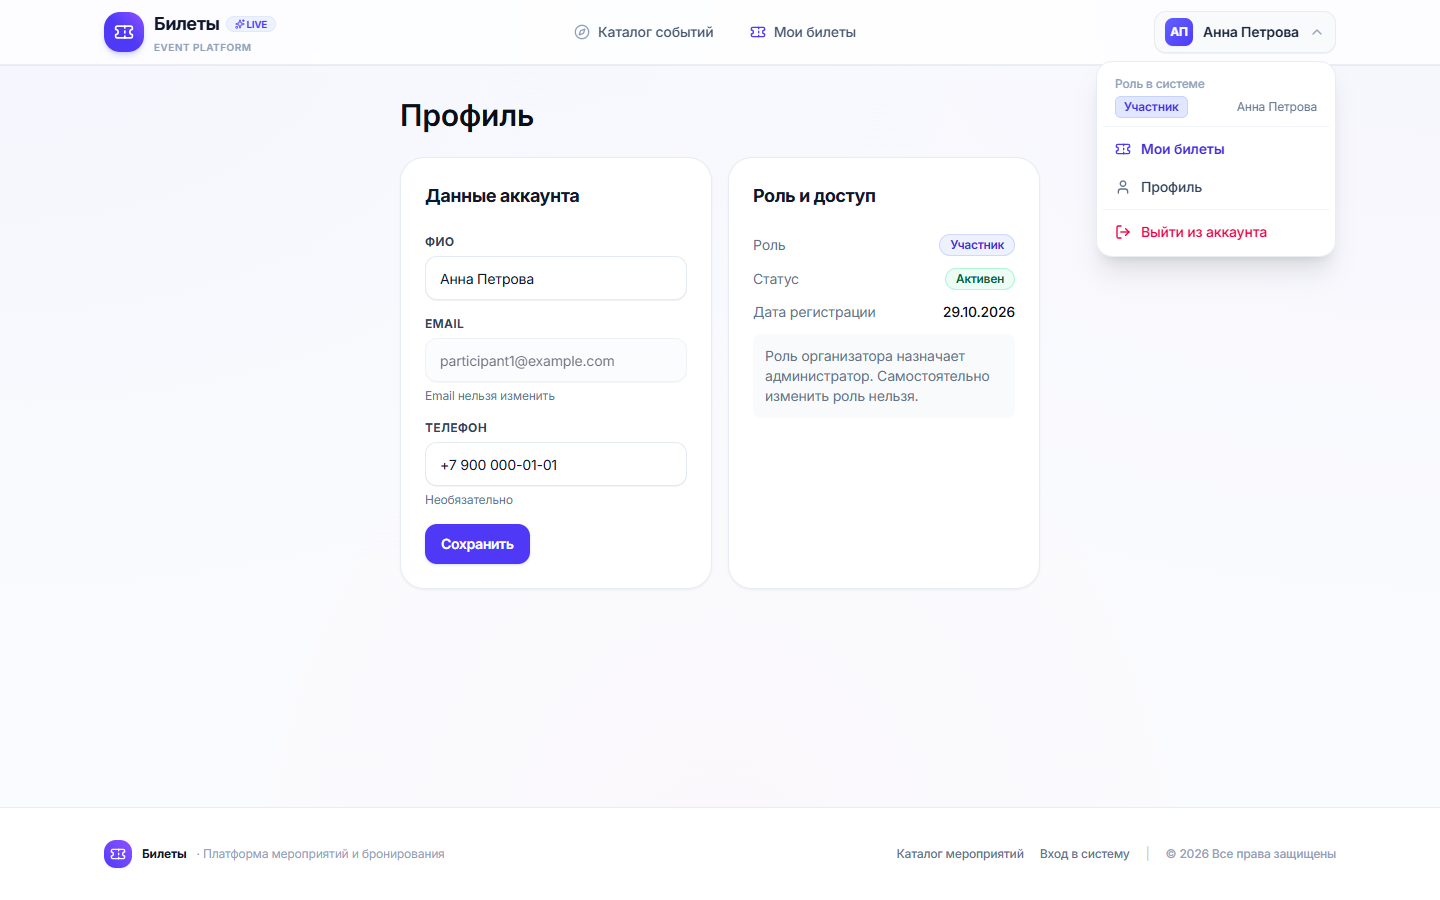
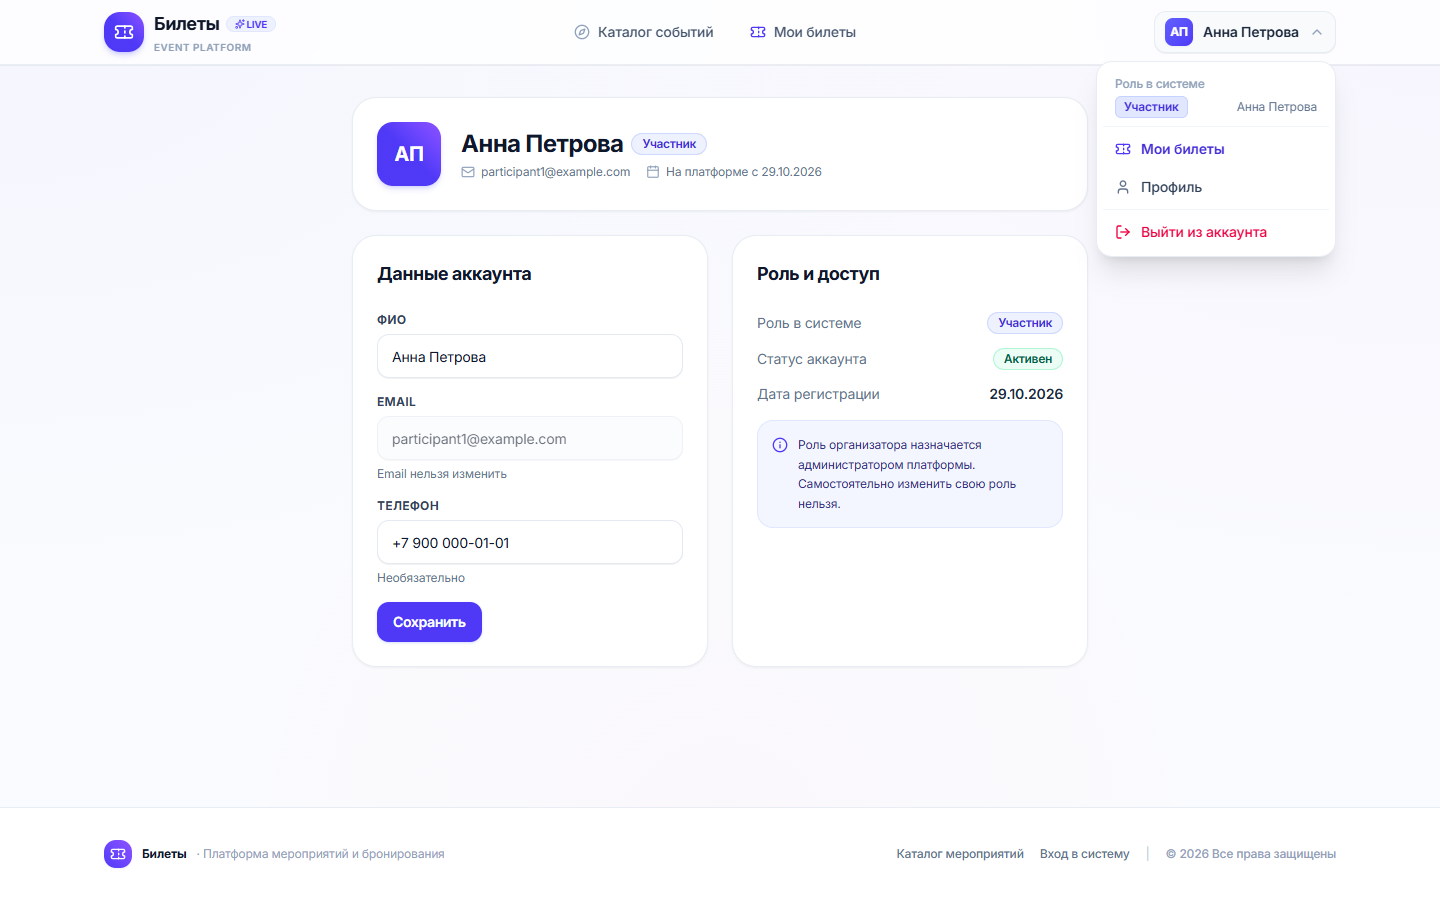
feat(ui): comprehensive UI polish across hall legend, organizer metrics, profile, and auth forms

diff --git a/src/app/(public)/login/login-form.tsx b/src/app/(public)/login/login-form.tsx
@@ -4,7 +4,7 @@ import * as React from 'react';
 import Link from 'next/link';
 import { useRouter, useSearchParams } from 'next/navigation';
 import { useFormStatus } from 'react-dom';
-import { ShieldAlert, Sparkles, UserCheck, Briefcase } from 'lucide-react';
+import { ShieldAlert, Sparkles, UserCheck, Briefcase, Eye, EyeOff } from 'lucide-react';
 import { loginAction } from '@/server/actions/auth';
 import { safeRedirectPath } from '@/shared/utils';
 import { Button } from '@/components/ui/button';
@@ -28,6 +28,7 @@ export function LoginForm() {
   const next = safeRedirectPath(rawNext, '/my-tickets');
   const [email, setEmail] = React.useState('');
   const [password, setPassword] = React.useState('');
+  const [showPassword, setShowPassword] = React.useState(false);
   const [error, setError] = React.useState<string | null>(null);
   const [fieldErrors, setFieldErrors] = React.useState<Record<string, string>>({});
   const [pending, setPending] = React.useState(false);
@@ -68,41 +69,44 @@ export function LoginForm() {
         router.refresh();
       }}
     >
-      {/* Кнопки быстрого выбора роли для демонстрации / защиты диплома */}
-      <div className="rounded-xl border border-slate-200 bg-slate-50 p-3 shadow-2xs">
-        <div className="flex items-center gap-1.5 text-xs font-semibold text-slate-700 mb-2">
+      {/* Кнопки быстрого выбора роли для демонстрации возможностей платформы */}
+      <div className="rounded-2xl border border-slate-200 bg-slate-50/80 p-3 shadow-2xs">
+        <div className="flex items-center gap-1.5 text-xs font-semibold text-slate-700 mb-2.5">
           <Sparkles className="h-3.5 w-3.5 text-amber-500" />
-          <span>Быстрый вход для демонстрации (тестовые роли):</span>
+          <span>Быстрый вход для тестирования ролей:</span>
         </div>
         <div className="grid grid-cols-3 gap-2">
           <button
             type="button"
             onClick={() => selectDemoUser('admin@example.com', 'Password123!')}
-            className="flex flex-col items-center justify-center rounded-lg border border-purple-200 bg-white p-2 text-xs font-medium text-purple-700 hover:bg-purple-50 hover:border-purple-300 transition shadow-2xs active:scale-95"
+            className="flex flex-col items-center justify-center rounded-xl border border-purple-200 bg-white p-2.5 text-xs font-semibold text-purple-700 hover:bg-purple-50 hover:border-purple-300 transition shadow-2xs active:scale-95"
             title="Администратор (доступ ко всем событиям, блокировка и роли пользователей)"
           >
             <ShieldAlert className="h-4 w-4 mb-1 text-purple-600" />
-            <span>Админ</span>
+            <span className="font-bold">Админ</span>
+            <span className="text-[10px] text-purple-500 font-normal mt-0.5">admin@…</span>
           </button>
 
           <button
             type="button"
             onClick={() => selectDemoUser('organizer1@example.com', 'Password123!')}
-            className="flex flex-col items-center justify-center rounded-lg border border-blue-200 bg-white p-2 text-xs font-medium text-blue-700 hover:bg-blue-50 hover:border-blue-300 transition shadow-2xs active:scale-95"
+            className="flex flex-col items-center justify-center rounded-xl border border-blue-200 bg-white p-2.5 text-xs font-semibold text-blue-700 hover:bg-blue-50 hover:border-blue-300 transition shadow-2xs active:scale-95"
             title="Организатор (свои мероприятия, схема зала, лист ожидания, участники)"
           >
             <Briefcase className="h-4 w-4 mb-1 text-blue-600" />
-            <span>Организатор</span>
+            <span className="font-bold">Организатор</span>
+            <span className="text-[10px] text-blue-500 font-normal mt-0.5">org1@…</span>
           </button>
 
           <button
             type="button"
             onClick={() => selectDemoUser('participant1@example.com', 'Password123!')}
-            className="flex flex-col items-center justify-center rounded-lg border border-emerald-200 bg-white p-2 text-xs font-medium text-emerald-700 hover:bg-emerald-50 hover:border-emerald-300 transition shadow-2xs active:scale-95"
+            className="flex flex-col items-center justify-center rounded-xl border border-emerald-200 bg-white p-2.5 text-xs font-semibold text-emerald-700 hover:bg-emerald-50 hover:border-emerald-300 transition shadow-2xs active:scale-95"
             title="Участник (каталог, покупка билетов, выбор места, лист ожидания)"
           >
             <UserCheck className="h-4 w-4 mb-1 text-emerald-600" />
-            <span>Участник</span>
+            <span className="font-bold">Участник</span>
+            <span className="text-[10px] text-emerald-500 font-normal mt-0.5">user1@…</span>
           </button>
         </div>
       </div>
@@ -126,15 +130,26 @@ export function LoginForm() {
       </Field>
 
       <Field label="Пароль" htmlFor="password" error={fieldErrors.password}>
-        <Input
-          id="password"
-          name="password"
-          type="password"
-          autoComplete="current-password"
-          value={password}
-          onChange={(e) => setPassword(e.target.value)}
-          required
-        />
+        <div className="relative">
+          <Input
+            id="password"
+            name="password"
+            type={showPassword ? 'text' : 'password'}
+            autoComplete="current-password"
+            value={password}
+            onChange={(e) => setPassword(e.target.value)}
+            className="pr-10"
+            required
+          />
+          <button
+            type="button"
+            onClick={() => setShowPassword((prev) => !prev)}
+            className="absolute right-3 top-1/2 -translate-y-1/2 text-slate-400 hover:text-slate-600 focus:outline-none"
+            aria-label={showPassword ? 'Скрыть пароль' : 'Показать пароль'}
+          >
+            {showPassword ? <EyeOff className="h-4 w-4" /> : <Eye className="h-4 w-4" />}
+          </button>
+        </div>
       </Field>
 
       <Submit pending={pending} />

diff --git a/src/app/(participant)/profile/page.tsx b/src/app/(participant)/profile/page.tsx
@@ -1,4 +1,5 @@
 import type { Metadata } from 'next';
+import { Info, User as UserIcon, Shield, Mail, Calendar } from 'lucide-react';
 import { requireUser } from '@/server/auth/guards';
 import { formatEventDate } from '@/shared/format';
 import { ROLE_LABEL } from '@/shared/constants';
@@ -9,13 +10,49 @@ import { ProfileForm } from './profile-form';
 export const metadata: Metadata = { title: 'Профиль' };
 export const dynamic = 'force-dynamic';
 
+function initials(name: string): string {
+  return name
+    .split(/\s+/)
+    .filter(Boolean)
+    .slice(0, 2)
+    .map((p) => p[0]?.toUpperCase() ?? '')
+    .join('');
+}
+
 export default async function ProfilePage() {
   const user = await requireUser();
 
   return (
-    <div className="mx-auto w-full max-w-2xl px-4 py-8">
-      <h1 className="text-2xl font-semibold sm:text-3xl">Профиль</h1>
-      <div className="mt-6 grid gap-4 sm:grid-cols-2">
+    <div className="mx-auto w-full max-w-3xl px-4 py-8">
+      {/* Профиль: карточка пользователя */}
+      <div className="relative overflow-hidden rounded-3xl border border-slate-200/80 bg-white p-6 shadow-xs mb-6">
+        <div className="flex flex-col sm:flex-row sm:items-center gap-5">
+          <div className="flex h-16 w-16 shrink-0 items-center justify-center rounded-2xl bg-gradient-to-tr from-indigo-600 via-indigo-600 to-violet-500 text-white font-black text-xl shadow-md shadow-indigo-500/20">
+            {initials(user.fullName) || 'У'}
+          </div>
+          <div className="space-y-1">
+            <div className="flex flex-wrap items-center gap-2">
+              <h1 className="text-xl sm:text-2xl font-black tracking-tight text-slate-900">
+                {user.fullName}
+              </h1>
+              <Badge tone="primary">{ROLE_LABEL[user.role]}</Badge>
+              {user.isBlocked && <Badge tone="danger">Заблокирован</Badge>}
+            </div>
+            <div className="flex flex-wrap items-center gap-x-4 gap-y-1 text-xs text-slate-500">
+              <span className="flex items-center gap-1.5">
+                <Mail className="h-3.5 w-3.5 text-slate-400" />
+                {user.email}
+              </span>
+              <span className="flex items-center gap-1.5">
+                <Calendar className="h-3.5 w-3.5 text-slate-400" />
+                На платформе с {formatEventDate(user.createdAt)}
+              </span>
+            </div>
+          </div>
+        </div>
+      </div>
+
+      <div className="grid gap-6 sm:grid-cols-2">
         <Card>
           <CardHeader>
             <CardTitle>Данные аккаунта</CardTitle>
@@ -29,24 +66,28 @@ export default async function ProfilePage() {
           <CardHeader>
             <CardTitle>Роль и доступ</CardTitle>
           </CardHeader>
-          <CardContent className="space-y-3 text-sm">
+          <CardContent className="space-y-3.5 text-sm">
             <div className="flex items-center justify-between gap-3">
-              <span className="text-[var(--muted-fg)]">Роль</span>
+              <span className="text-slate-500">Роль в системе</span>
               <Badge tone="primary">{ROLE_LABEL[user.role]}</Badge>
             </div>
             <div className="flex items-center justify-between gap-3">
-              <span className="text-[var(--muted-fg)]">Статус</span>
+              <span className="text-slate-500">Статус аккаунта</span>
               <Badge tone={user.isBlocked ? 'danger' : 'success'}>
                 {user.isBlocked ? 'Заблокирован' : 'Активен'}
               </Badge>
             </div>
             <div className="flex items-center justify-between gap-3">
-              <span className="text-[var(--muted-fg)]">Дата регистрации</span>
-              <span className="font-medium">{formatEventDate(user.createdAt)}</span>
+              <span className="text-slate-500">Дата регистрации</span>
+              <span className="font-semibold text-slate-800">{formatEventDate(user.createdAt)}</span>
             </div>
-            <p className="rounded-lg bg-slate-50 p-3 text-[var(--muted-fg)]">
-              Роль организатора назначает администратор. Самостоятельно изменить роль нельзя.
-            </p>
+
+            <div className="mt-4 flex items-start gap-2.5 rounded-2xl border border-indigo-100 bg-indigo-50/70 p-3.5 text-xs text-indigo-900 leading-relaxed">
+              <Info className="h-4 w-4 text-indigo-600 shrink-0 mt-0.5" />
+              <span>
+                Роль организатора назначается администратором платформы. Самостоятельно изменить свою роль нельзя.
+              </span>
+            </div>
           </CardContent>
         </Card>
       </div>

diff --git a/src/app/(public)/register/register-form.tsx b/src/app/(public)/register/register-form.tsx
@@ -4,6 +4,7 @@ import * as React from 'react';
 import Link from 'next/link';
 import { useRouter, useSearchParams } from 'next/navigation';
 import { useFormStatus } from 'react-dom';
+import { Eye, EyeOff } from 'lucide-react';
 import { registerAction } from '@/server/actions/auth';
 import { safeRedirectPath } from '@/shared/utils';
 import { Button } from '@/components/ui/button';
@@ -25,6 +26,7 @@ export function RegisterForm() {
   const searchParams = useSearchParams();
   const rawNext = searchParams.get('next');
   const next = safeRedirectPath(rawNext, '/');
+  const [showPassword, setShowPassword] = React.useState(false);
   const [error, setError] = React.useState<string | null>(null);
   const [fieldErrors, setFieldErrors] = React.useState<Record<string, string>>({});
   const [pending, setPending] = React.useState(false);
@@ -73,14 +75,25 @@ export function RegisterForm() {
         error={fieldErrors.password}
         hint="Минимум 8 символов"
       >
-        <Input
-          id="password"
-          name="password"
-          type="password"
-          autoComplete="new-password"
-          minLength={8}
-          required
-        />
+        <div className="relative">
+          <Input
+            id="password"
+            name="password"
+            type={showPassword ? 'text' : 'password'}
+            autoComplete="new-password"
+            minLength={8}
+            className="pr-10"
+            required
+          />
+          <button
+            type="button"
+            onClick={() => setShowPassword((prev) => !prev)}
+            className="absolute right-3 top-1/2 -translate-y-1/2 text-slate-400 hover:text-slate-600 focus:outline-none"
+            aria-label={showPassword ? 'Скрыть пароль' : 'Показать пароль'}
+          >
+            {showPassword ? <EyeOff className="h-4 w-4" /> : <Eye className="h-4 w-4" />}
+          </button>
+        </div>
       </Field>
 
       <Submit pending={pending} />

diff --git a/src/app/(organizer)/organizer/page.tsx b/src/app/(organizer)/organizer/page.tsx
@@ -1,6 +1,6 @@
 import type { Metadata } from 'next';
 import Link from 'next/link';
-import { Users, Armchair, Gauge } from 'lucide-react';
+import { Users, Armchair, Gauge, CalendarDays } from 'lucide-react';
 import { requireRole } from '@/server/auth/guards';
 import { getOrganizerEvents, getOrganizerMetrics } from '@/server/db/queries';
 import { DashboardShell, MetricCard } from '@/components/layout/dashboard-shell';
@@ -29,13 +29,22 @@ export default async function OrganizerDashboard() {
         </ButtonLink>
       }
     >
-      <div className="grid gap-4 sm:grid-cols-3">
-        <MetricCard icon={<Users className="h-5 w-5" />} value={metrics.registrations} label="Всего регистраций" />
+      <div className="grid gap-4 sm:grid-cols-2 lg:grid-cols-4">
+        <MetricCard
+          icon={<CalendarDays className="h-5 w-5" />}
+          value={metrics.totalEvents}
+          label="Моих мероприятий"
+        />
+        <MetricCard
+          icon={<Users className="h-5 w-5" />}
+          value={metrics.registrations}
+          label="Всего регистраций"
+          tone="accent"
+        />
         <MetricCard
           icon={<Armchair className="h-5 w-5" />}
           value={metrics.freeSeats}
           label="Свободных мест"
-          tone="accent"
         />
         <MetricCard
           icon={<Gauge className="h-5 w-5" />}

diff --git a/src/server/db/queries.ts b/src/server/db/queries.ts
@@ -261,6 +261,7 @@ export async function getOrganizerMetrics(organizerId: string) {
 
   const [seats] = await db
     .select({
+      totalEvents: count(),
       free: sql<number>`coalesce(sum(max_seats - occupied_seats), 0)::int`,
       fill: sql<number>`coalesce(round(avg(case when max_seats > 0 then (occupied_seats::numeric / max_seats) * 100 end)), 0)::int`,
     })
@@ -268,6 +269,7 @@ export async function getOrganizerMetrics(organizerId: string) {
     .where(eq(events.organizerId, organizerId));
 
   return {
+    totalEvents: seats?.totalEvents ?? 0,
     registrations: totals?.registrations ?? 0,
     freeSeats: seats?.free ?? 0,
     fillPercent: seats?.fill ?? 0,

diff --git a/src/components/events/hall-picker.tsx b/src/components/events/hall-picker.tsx
@@ -434,6 +434,12 @@ function Legend() {
         Свободно
       </span>
       <span className="flex items-center gap-1.5">
+        <span className="relative flex h-3 w-3 items-center justify-center rounded border border-slate-300 bg-white shadow-2xs">
+          <span className="h-1.5 w-1.5 rounded-full bg-amber-500" />
+        </span>
+        VIP-место
+      </span>
+      <span className="flex items-center gap-1.5">
         <span className="h-3 w-3 rounded bg-indigo-600 shadow-2xs" />
         Выбрано вами
       </span>

diff --git a/src/components/events/event-form.tsx b/src/components/events/event-form.tsx
@@ -49,7 +49,7 @@ export function EventForm({
   return (
     <Card>
       <CardHeader>
-        <CardTitle>{mode === 'create' ? 'Новое мероприятие' : 'Редактирование мероприятия'}</CardTitle>
+        <CardTitle>{mode === 'create' ? 'Параметры и детали события' : 'Редактирование параметров события'}</CardTitle>
       </CardHeader>
       <CardContent>
         <form
